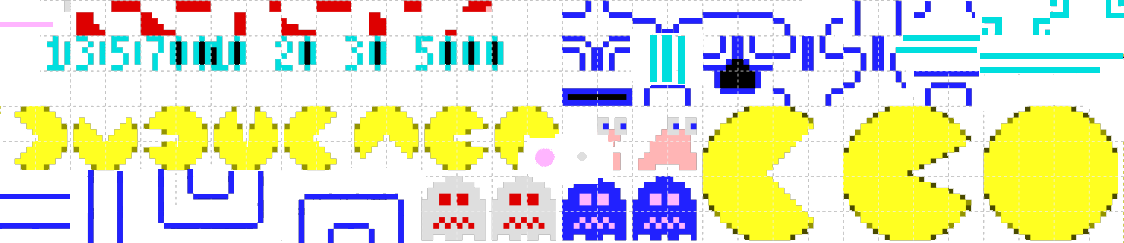
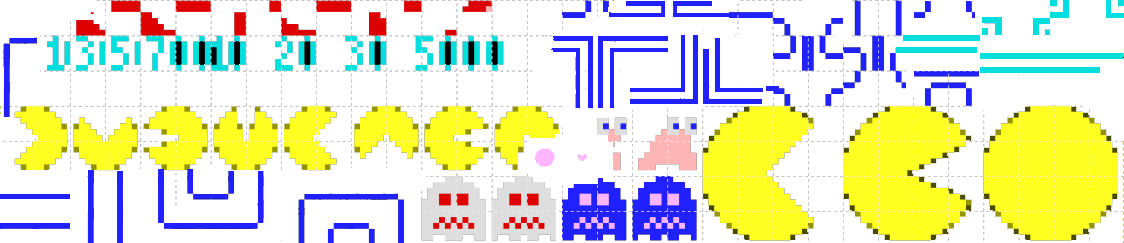
map changes, and sprites changed

diff --git a/Game1.cs b/Game1.cs
@@ -193,8 +193,37 @@ namespace MsPacMan
                        case 'V':
                             spriteBatch.Draw(texture: SpriteSheetMap, destinationRectangle: outRect, sourceRectangle: new Rectangle(2 * 35, 6 * 35, 35, 35), color: Color.White);
                             break;
-                            /*right side*/                      
-
+                        /*right side*/
+                        case '4':
+                            spriteBatch.Draw(texture: SpriteSheetMap, destinationRectangle: outRect, sourceRectangle: new Rectangle(16 * 35, 1 * 35, 35, 35), color: Color.White);
+                            break;
+                        case '5':
+                            spriteBatch.Draw(texture: SpriteSheetMap, destinationRectangle: outRect, sourceRectangle: new Rectangle(17 * 35, 1 * 35, 35, 35), color: Color.White);
+                            break;
+                        case '6':
+                            spriteBatch.Draw(texture: SpriteSheetMap, destinationRectangle: outRect, sourceRectangle: new Rectangle(18 * 35, 1 * 35, 35, 35), color: Color.White);
+                            break;
+                        case '7':
+                            spriteBatch.Draw(texture: SpriteSheetMap, destinationRectangle: outRect, sourceRectangle: new Rectangle(17 * 35, 2 * 35, 35, 35), color: Color.White);
+                            break;
+                        case '8':
+                            spriteBatch.Draw(texture: SpriteSheetMap, destinationRectangle: outRect, sourceRectangle: new Rectangle(16 * 35, 2 * 35, 35, 35), color: Color.White);
+                            break;
+                        case '9':
+                            spriteBatch.Draw(texture: SpriteSheetMap, destinationRectangle: outRect, sourceRectangle: new Rectangle(20 * 35, 2 * 35, 35, 35), color: Color.White);
+                            break;
+                        case 'N':
+                            spriteBatch.Draw(texture: SpriteSheetMap, destinationRectangle: outRect, sourceRectangle: new Rectangle(18 * 35, 2 * 35, 35, 35), color: Color.White);
+                            break;
+                        case '-':
+                            spriteBatch.Draw(texture: SpriteSheetMap, destinationRectangle: outRect, sourceRectangle: new Rectangle(19 * 35, 2 * 35, 35, 35), color: Color.White);
+                            break;
+                        case 'O':
+                            spriteBatch.Draw(texture: SpriteSheetMap, destinationRectangle: outRect, sourceRectangle: new Rectangle(18 * 35, 0, 35, 35), color: Color.White);
+                            break;
+                        case 'Ç':
+                            spriteBatch.Draw(texture: SpriteSheetMap, destinationRectangle: outRect, sourceRectangle: new Rectangle(19 * 35, 0, 35, 35), color: Color.White);
+                            break;
                     }
 
                 }
@@ -264,7 +293,7 @@ namespace MsPacMan
                         {
                             score.numberOfPoints++;
 
-                        }
+                        } 
 
                     }
                     else if (filePosition == 'S')

diff --git a/Player.cs b/Player.cs
@@ -149,7 +149,7 @@ namespace MsPacMan
                     }
                     if ((board.board[targetPosition.X / Game1.outputTileSize,
                         targetPosition.Y / Game1.outputTileSize] != ' ') && (board.board[targetPosition.X / Game1.outputTileSize,
-                        targetPosition.Y / Game1.outputTileSize] != '-') && (board.board[targetPosition.X / Game1.outputTileSize,
+                        targetPosition.Y / Game1.outputTileSize] != '.') && (board.board[targetPosition.X / Game1.outputTileSize,
                         targetPosition.Y / Game1.outputTileSize] != '?'))
                     {
                         targetPosition = position;

diff --git a/Dot.cs b/Dot.cs
@@ -51,7 +51,7 @@ namespace MsPacMan
         {
             Rectangle playerPosition = new Rectangle(game1.player.position, new Point(Game1.outputTileSize));
             
-            Rectangle DotArea = new Rectangle(((position.ToVector2()) * Game1.outputTileSize).ToPoint(), new Point(12));
+            Rectangle DotArea = new Rectangle(((position.ToVector2()) * Game1.outputTileSize).ToPoint(), new Point(8));
 
             if (DotArea.Intersects(playerPosition))
             {
